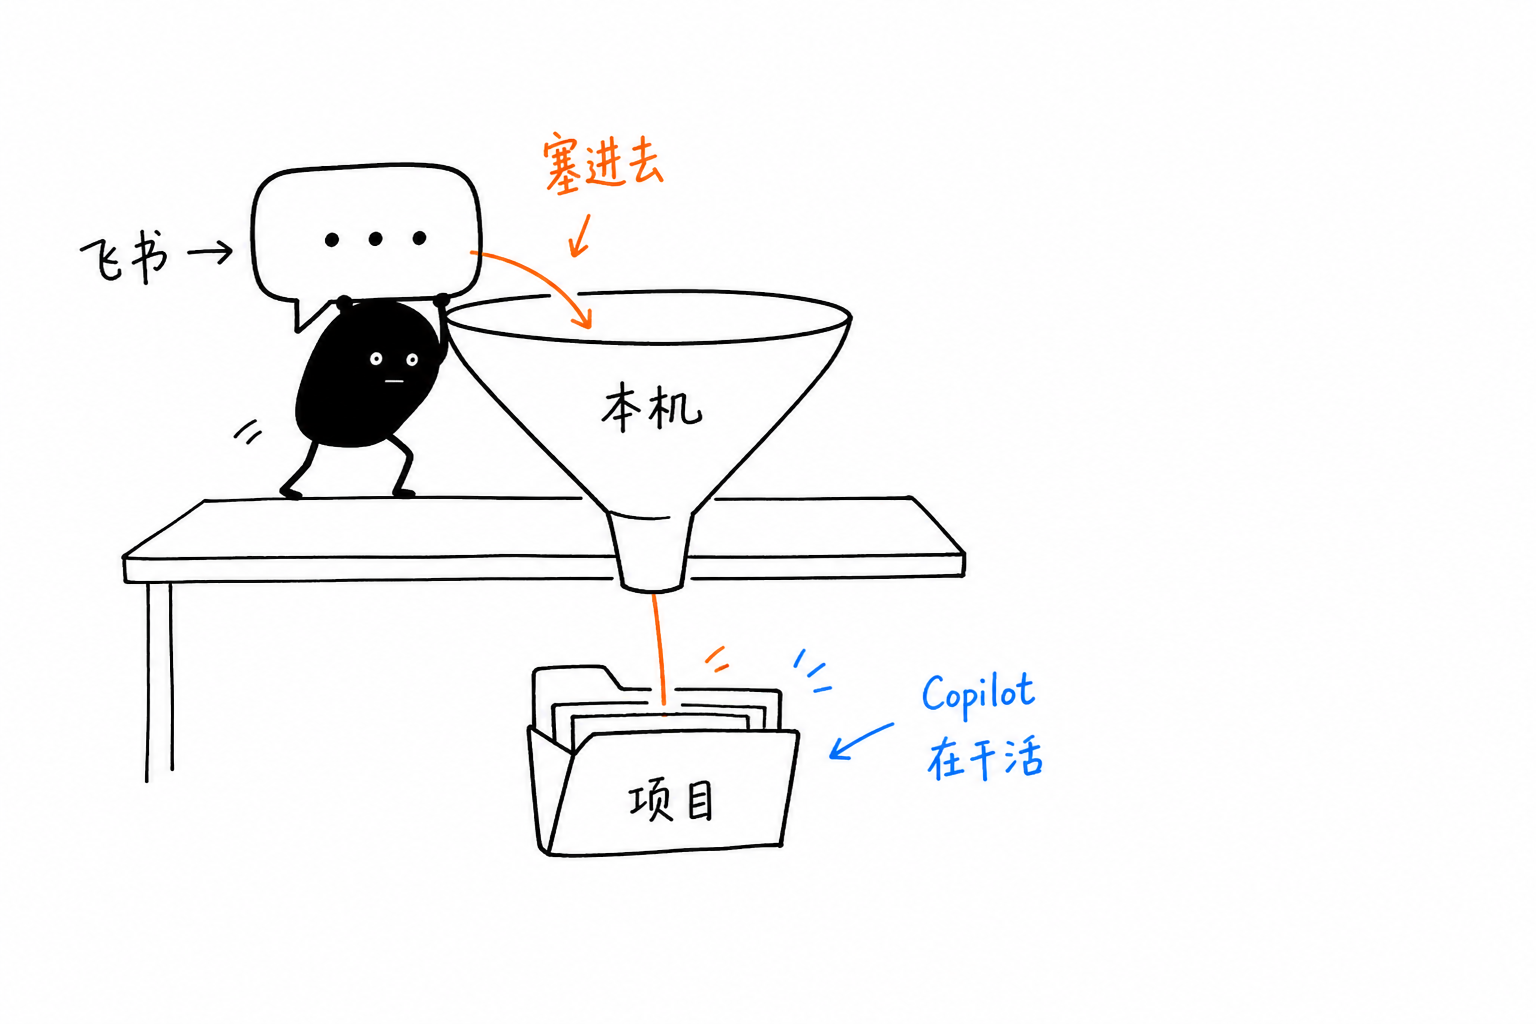
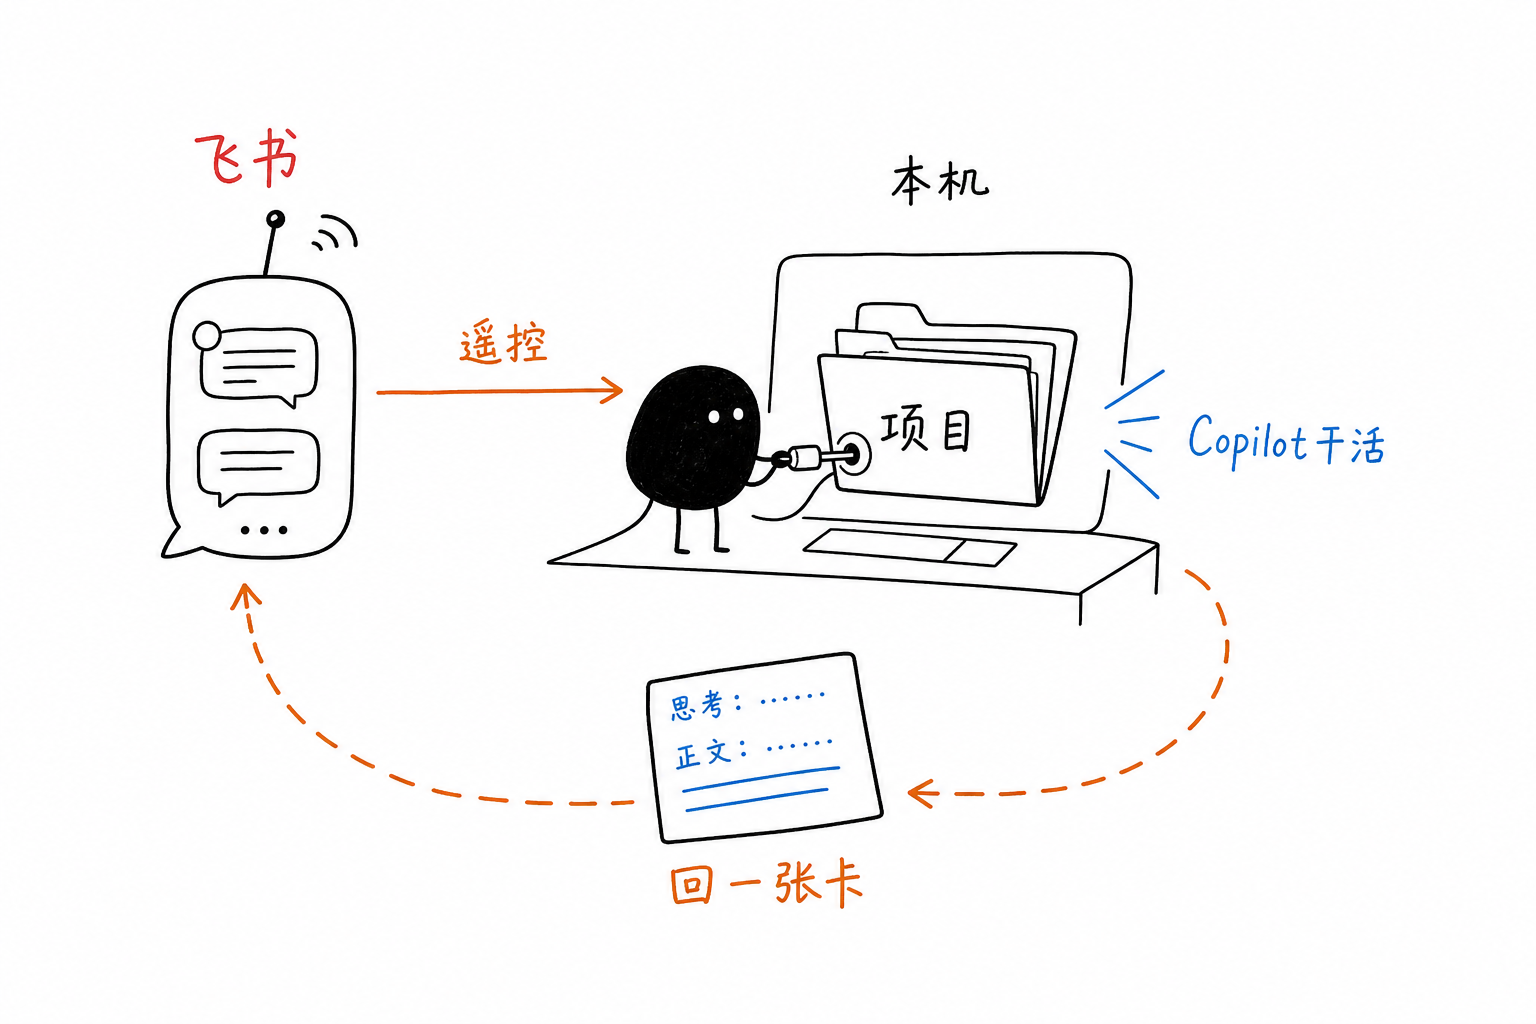
Redraw guide hero as Feishu remote closed loop
Replace the one-way funnel with remote → local project work → reply card back, matching the product story.

diff --git a/docs/guide.md b/docs/guide.md
@@ -14,7 +14,7 @@
 
 回复写在**同一张流式卡片**上：思考、工具调用、正文会原地更新。
 
-![飞书消息经小黑塞进本机文件夹](../assets/guide-illustrations/01-bridge-funnel.png)
+![飞书遥控本机；项目里干活；再回一张卡](../assets/guide-illustrations/01-bridge-funnel.png)
 
 你不必会写代码。机器人跑在**你自己的电脑**上——飞书只是遥控器。电脑休眠或关机，机器人也会停。
 
